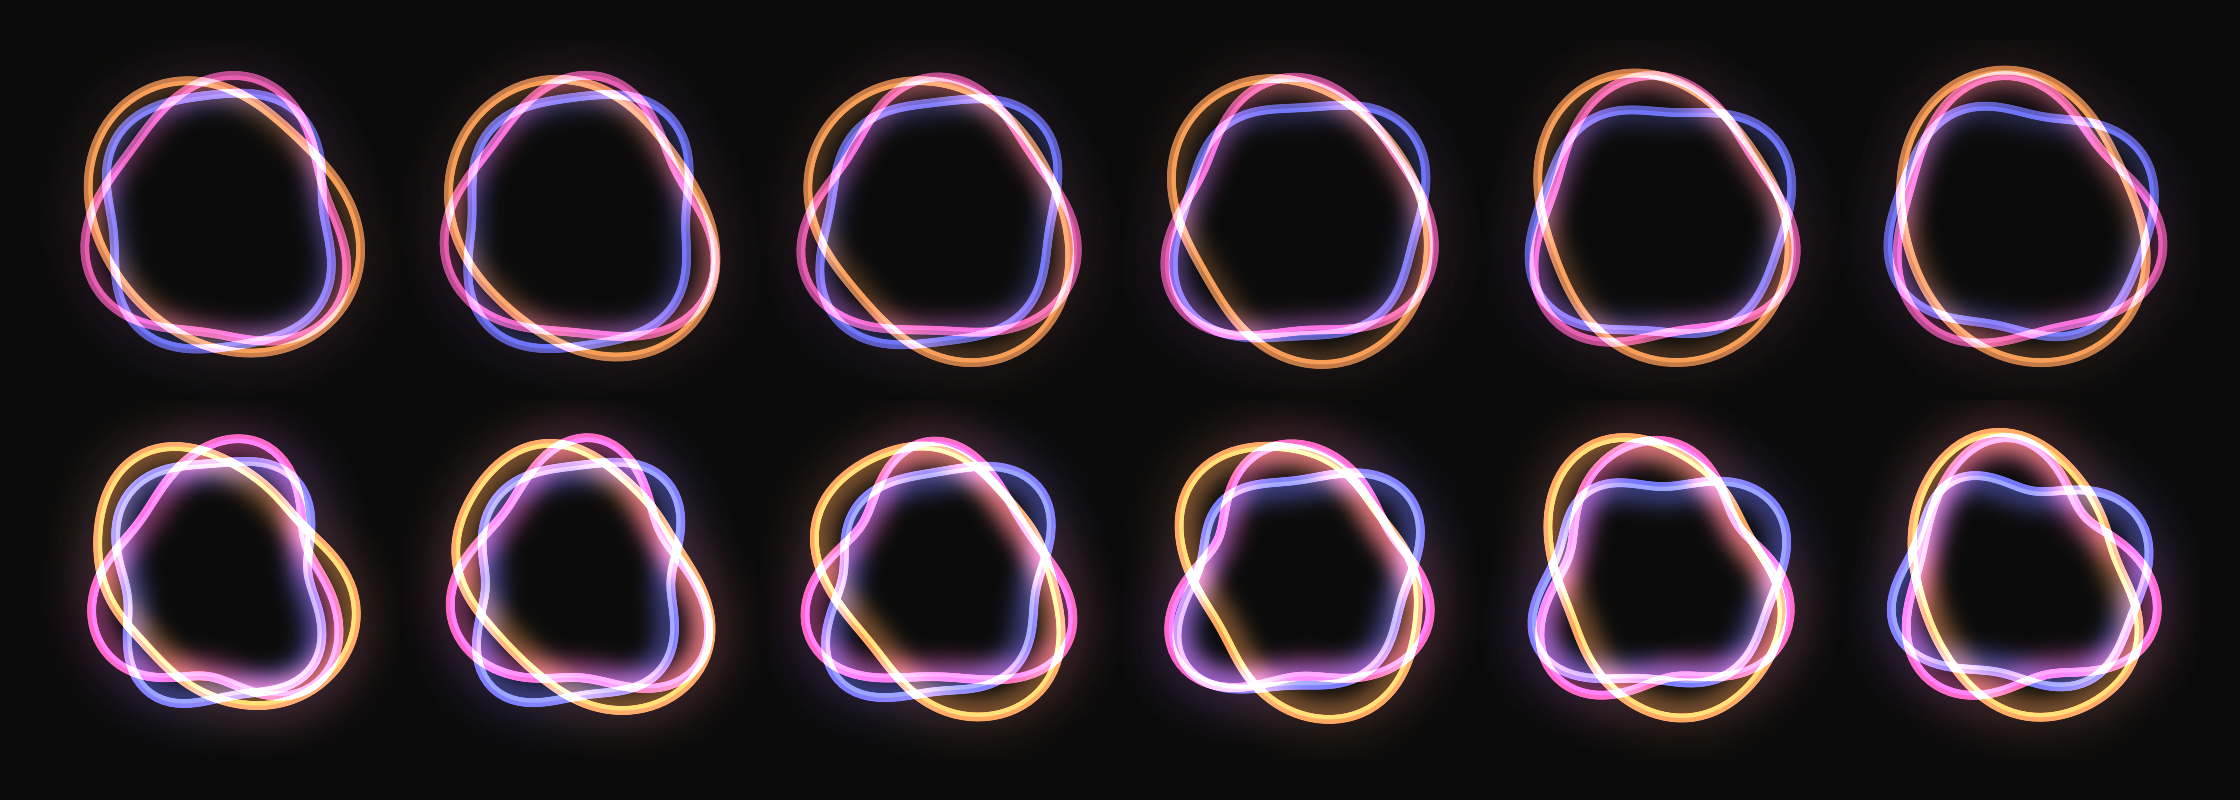
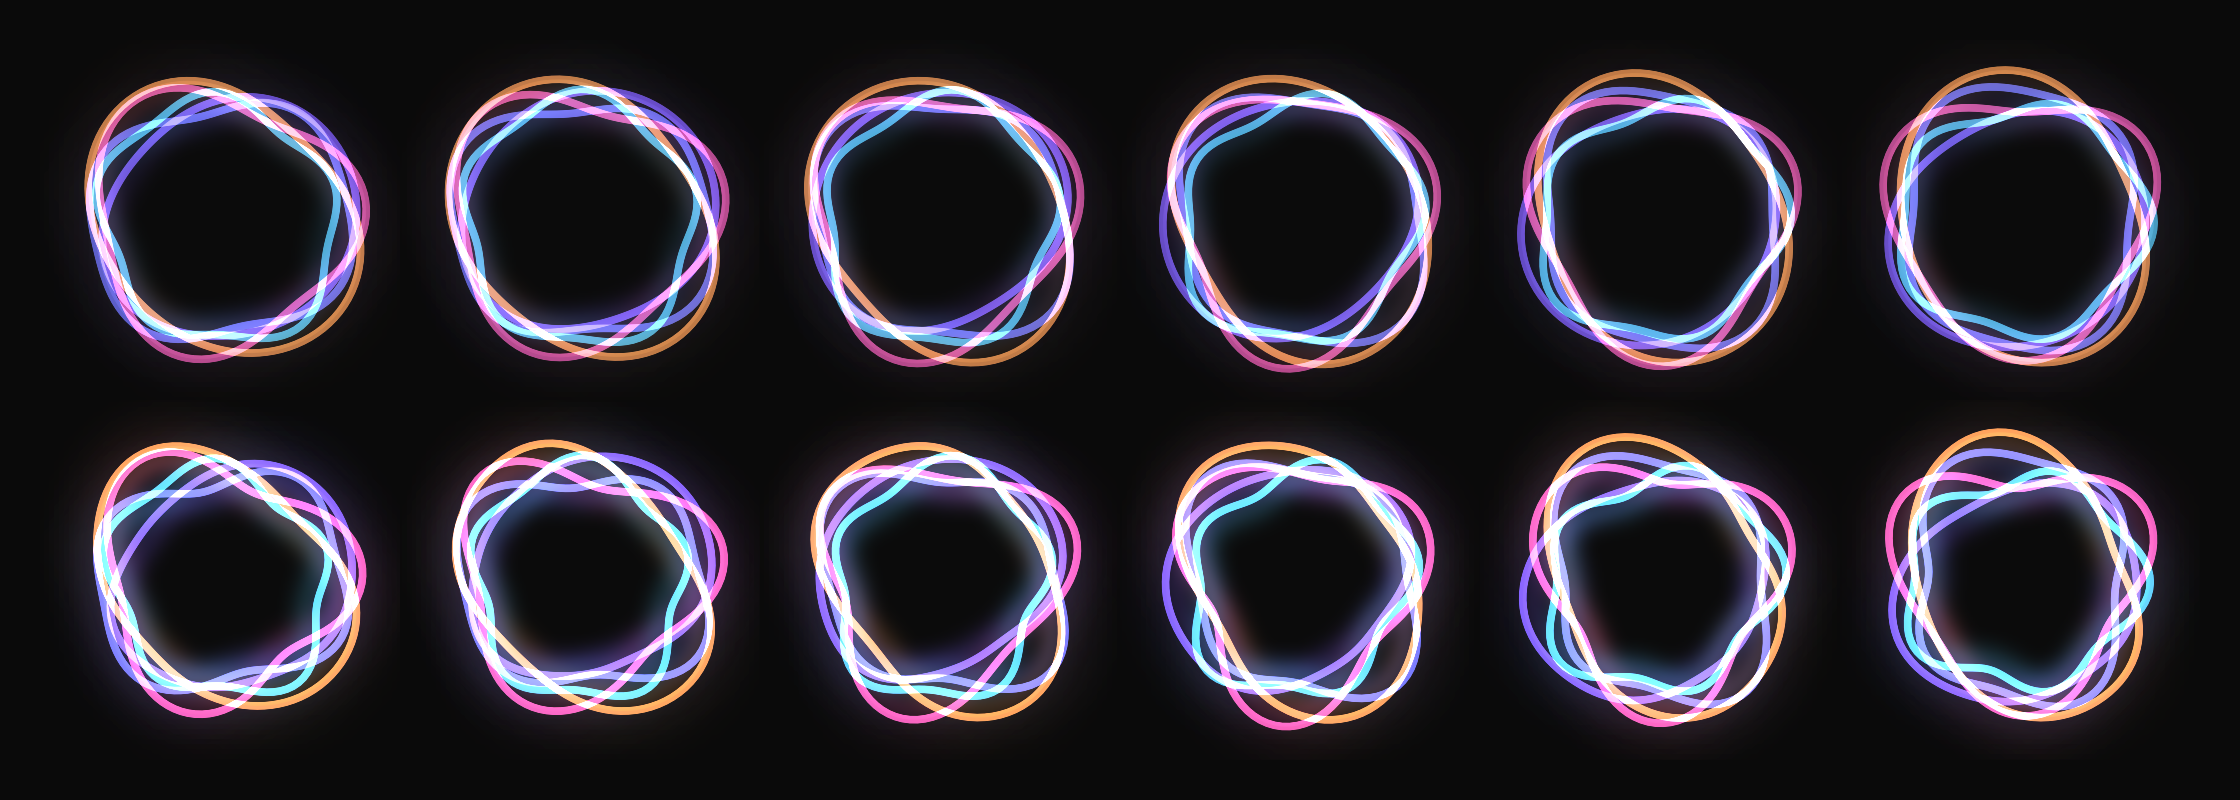
Orb: five blobs, 40 pt

Changed region(s): [[0.0312, 0.0625, 0.9688, 0.4688], [0.0312, 0.5312, 0.8125, 0.9375], [0.8438, 0.5312, 0.9688, 0.9062]]

diff --git a/Sources/Utter/HUD/LiquidOrb.swift b/Sources/Utter/HUD/LiquidOrb.swift
@@ -35,12 +35,15 @@ struct BlobShape: Shape {
         (1, 0.55, 0.0, 0.30), (2, -0.83, 1.3, 0.45), (3, 0.61, 2.1, 0.28), (4, -0.47, 0.7, 0.12),
     ]
 
-    /// The orb's three overlapping copies: an oval, a rounded triangle and a
-    /// soft square. Different shapes keep each outline recognisable where they cross.
-    static let trio: [[Bulge]] = [
+    /// The orb's overlapping copies, used in order (`OrbStyle.blobCount` of them):
+    /// an oval, a rounded triangle, a soft square, a lopsided bean and a soft
+    /// pentagon. Different shapes keep each outline recognisable where they cross.
+    static let shapes: [[Bulge]] = [
         [(2, 0.40, 0.0, 0.90), (3, -0.50, 1.0, 0.15), (1, 0.30, 2.0, 0.10)],
         [(3, -0.45, 0.5, 0.85), (2, 0.60, 1.4, 0.15), (4, 0.30, 0.2, 0.10)],
         [(2, -0.35, 2.2, 0.55), (4, 0.50, 0.9, 0.45), (1, 0.70, 0.0, 0.10)],
+        [(1, 0.55, 1.7, 0.60), (2, -0.40, 0.3, 0.50), (3, 0.35, 2.4, 0.12)],
+        [(5, 0.30, 0.6, 0.45), (2, -0.55, 1.9, 0.35), (1, 0.45, 0.4, 0.10)],
     ]
 
     func path(in rect: CGRect) -> Path {
@@ -75,6 +78,11 @@ struct BlobShape: Shape {
     }
 }
 
+/// How many blobs the orb draws (up to `BlobShape.shapes.count`).
+enum OrbStyle {
+    nonisolated(unsafe) static var blobCount = 5
+}
+
 /// Developer snapshots only (`--snapshot`): when set, animated views draw this
 /// moment instead of the real time, and every orb draws `motion` without
 /// advancing it, so an animation can be rendered frame by frame.
@@ -83,7 +91,7 @@ enum SnapshotClock {
     nonisolated(unsafe) static var motion: BlobMotion?
 }
 
-/// Frame-to-frame motion for the three blobs. Phases are integrated over time
+/// Frame-to-frame motion for the blobs. Phases are integrated over time
 /// (so changing speed never makes a shape jump) and the mic level is eased.
 ///
 /// When you start speaking after a pause (`SpeechOnset`: not every syllable),
@@ -94,15 +102,17 @@ enum SnapshotClock {
 /// With Reduce Motion on (System Settings → Accessibility → Display) there is
 /// no jolt and the blobs turn and morph at half speed.
 final class BlobMotion: ObservableObject {
-    static let speeds = [1.0, 1.35, 0.75]
-    static let directions = [1.0, -1.0, 0.6]
+    static let speeds = [1.0, 1.35, 0.75, 1.15, 0.9]
+    static let directions = [1.0, -1.0, 0.6, -0.8, 0.45]
+    /// Motion is kept for every possible blob; the orb draws the first `OrbStyle.blobCount`.
+    static let slots = BlobShape.shapes.count
 
     private var last: Date?
     private var onset = SpeechOnset()
     private var previousTarget = 0.0
     private var jitterClock = 0.0
-    private var kick = [0.0, 0.0, 0.0]
-    private var spikeSpeed = [0.0, 0.0, 0.0]
+    private var kick = [Double](repeating: 0, count: slots)
+    private var spikeSpeed = [Double](repeating: 0, count: slots)
     private var reduceMotion = false
 
     private(set) var level = 0.0
@@ -119,9 +129,9 @@ final class BlobMotion: ObservableObject {
     var shake: Double { min(1, energy + (reduceMotion ? 0 : 0.5 * voice)) }
     /// Random -1…1, changed ~30 times a second: shake and flicker during a jolt.
     private(set) var jitter = 0.0
-    private(set) var flow = [0.0, 0.0, 0.0]
-    private(set) var rotation = [0.0, 2.094, 4.189]
-    private(set) var spikes = [BlobShape.Spike](repeating: .none, count: 3)
+    private(set) var flow = [Double](repeating: 0, count: slots)
+    private(set) var rotation = (0..<slots).map { Double($0) * 2 * .pi / 3 + Double($0 / 3) * 1.05 }
+    private(set) var spikes = [BlobShape.Spike](repeating: .none, count: slots)
     private(set) var buzz = 0.0
     private(set) var time = 0.0
 
@@ -142,7 +152,7 @@ final class BlobMotion: ObservableObject {
         let rise = target - previousTarget
         previousTarget = target
         if rise > 0.06, !reduceMotion { // low enough that soft syllables count too
-            for i in 0..<3 {
+            for i in 0..<Self.slots {
                 kick[i] += (Bool.random() ? -1 : 1) * Double.random(in: 0.6...1.8) * rise * 2
                 spikes[i].lobes = Double(Int.random(in: 3...8))
                 spikes[i].lobes2 = Double(Int.random(in: 7...12))
@@ -155,7 +165,7 @@ final class BlobMotion: ObservableObject {
             // Louder starts jolt harder.
             let amount = min(1, 0.35 + target)
             energy = min(1, energy + amount)
-            for i in 0..<3 {
+            for i in 0..<Self.slots {
                 kick[i] += (Bool.random() ? -1 : 1) * Double.random(in: 2...6) * amount
                 spikes[i].lobes = Double(Int.random(in: 3...8))
                 spikes[i].lobes2 = Double(Int.random(in: 7...12))
@@ -170,7 +180,7 @@ final class BlobMotion: ObservableObject {
             jitter = Double.random(in: -1...1)
         }
         let pace = reduceMotion ? 0.5 : 1.0
-        for i in 0..<3 {
+        for i in 0..<Self.slots {
             kick[i] *= exp(-dt / 0.35)
             flow[i] += dt * pace * (0.8 + 1.5 * level + 6 * energy) * Self.speeds[i]
             rotation[i] += dt * (pace * (0.2 + 0.9 * level) * 0.6 * Self.directions[i] + kick[i])
@@ -184,14 +194,14 @@ final class BlobMotion: ObservableObject {
     }
 }
 
-/// Three dark blobs sharing one centre, each a different shape with its edge
+/// Five dark blobs (`OrbStyle.blobCount`) sharing one centre, each a different shape with its edge
 /// lit in its own colour, so where they overlap stays easy to see.
 ///
 /// - Listening: quiet, they turn and morph smoothly. While you talk, the edges
 ///   spike and the orb shakes in step with your voice, like the waveform's
 ///   bars, and the start of speech jolts it hardest (see `BlobMotion`).
 /// - Thinking: calm, slow morph.
-/// - Done: the three settle into one circle, a completion ring draws around
+/// - Done: the blobs settle into one circle, a completion ring draws around
 ///   it, then a check. Failed: settles amber with an exclamation mark.
 ///
 /// Everything is drawn inside a fixed `size` square, so it never reaches up
@@ -210,13 +220,16 @@ struct AIOrb: View {
     @StateObject private var motion = BlobMotion()
     @Environment(\.accessibilityReduceMotion) private var reduceMotion
 
-    /// One colour per blob.
+    /// One colour per blob, in drawing order (the first `OrbStyle.blobCount` are used).
     private var hues: [Color] {
         let cool = Color(red: 0.42, green: 0.45, blue: 1.0)
+        let cyan = Color(red: 0.30, green: 0.78, blue: 0.95)
         switch mood {
-        case .listening: return [Theme.amber, colors[0], cool]
-        case .thinking: return [Theme.magenta, Theme.violet, cool]
-        case .done, .failed: return [colors[0], colors[colors.count > 1 ? 1 : 0], colors[0]]
+        case .listening: return [Theme.amber, colors[0], cool, Theme.violet, cyan]
+        case .thinking: return [Theme.magenta, Theme.violet, cool, Theme.magenta, cyan]
+        case .done, .failed:
+            let second = colors[colors.count > 1 ? 1 : 0]
+            return [colors[0], second, colors[0], second, colors[0]]
         }
     }
 
@@ -282,15 +295,18 @@ struct AIOrb: View {
         let vibration = (0.02 * lv + 0.05 * voice + 0.03 * energy) * settle
         let hues = self.hues
 
-        let paths: [Path] = (0..<3).map { i in
-            let ri = CGFloat(r * (1 - 0.03 * Double(i) * settle))
+        let count = max(1, min(OrbStyle.blobCount, BlobMotion.slots))
+        // More blobs share the light: each glow is dimmed so the overlaps don't wash out white.
+        let share = min(1, 3 / Double(count))
+        let paths: [Path] = (0..<count).map { i in
+            let ri = CGFloat(r * (1 - 0.025 * Double(i) * settle))
             var spike = preview == nil ? motion.spikes[i] : .none
             spike.amount *= settle
             let flow = preview.map { $0.flow * BlobMotion.speeds[i] + Double(i) * 2.2 } ?? motion.flow[i]
-            let rotation = preview.map { Double(i) * 2.094 + $0.drift * 0.6 * BlobMotion.directions[i] }
+            let rotation = preview.map { Double(i) * 2 * .pi / Double(count) + $0.drift * 0.6 * BlobMotion.directions[i] }
                 ?? motion.rotation[i]
             return BlobShape(flow: flow, buzz: motion.buzz, wobble: wobble, vibration: vibration,
-                             bulges: BlobShape.trio[i], rotation: rotation, spike: spike)
+                             bulges: BlobShape.shapes[i], rotation: rotation, spike: spike)
                 .path(in: CGRect(x: center.x - ri, y: center.y - ri, width: 2 * ri, height: 2 * ri))
         }
         let flicker = 1 + 0.5 * shake * jitter
@@ -301,8 +317,8 @@ struct AIOrb: View {
         halo.blendMode = .plusLighter
         halo.drawLayer { layer in
             layer.addFilter(.blur(radius: 4 * k))
-            for i in 0..<3 {
-                layer.stroke(paths[i], with: .color(hues[i].opacity(min(1, (0.15 + 0.25 * lv + 0.3 * energy) * flicker))),
+            for i in paths.indices {
+                layer.stroke(paths[i], with: .color(hues[i].opacity(min(1, (0.15 + 0.25 * lv + 0.3 * energy) * flicker * share))),
                              lineWidth: 2.5 * k)
             }
         }
@@ -310,7 +326,7 @@ struct AIOrb: View {
         // Near-black bodies, so the orb melts into the notch.
         for path in paths { ctx.fill(path, with: .color(Color(white: 0.043))) }
 
-        // Soft glow just inside each edge. One blur for all three (blurs are the
+        // Soft glow just inside each edge. One blur for all of them (blurs are the
         // expensive part of a frame): each glow is clipped to its own blob, the
         // layer is blurred once, then clipped to the orb's outline.
         var outline = Path()
@@ -320,11 +336,11 @@ struct AIOrb: View {
         glow.clip(to: outline)
         glow.addFilter(.blur(radius: blob * 0.035))
         glow.drawLayer { layer in
-            for i in 0..<3 {
+            for i in paths.indices {
                 var inside = layer
                 inside.clip(to: paths[i])
-                // Kept low: three glows add up, and too much washes the overlaps white.
-                inside.stroke(paths[i], with: .color(hues[i].opacity(min(1, 0.28 + 0.2 * lv + 0.2 * energy))),
+                // Kept low: the glows add up, and too much washes the overlaps white.
+                inside.stroke(paths[i], with: .color(hues[i].opacity(min(1, 0.28 + 0.2 * lv + 0.2 * energy) * share)),
                               lineWidth: blob * (0.09 + 0.04 * lv))
             }
         }
@@ -332,9 +348,9 @@ struct AIOrb: View {
         // Crisp edges on top: these make each outline traceable through the overlaps.
         var edges = ctx
         edges.blendMode = .plusLighter
-        for i in 0..<3 {
+        for i in paths.indices {
             edges.stroke(paths[i], with: .color(hues[i].opacity(min(1, (0.7 + 0.3 * lv) * flicker))),
-                         lineWidth: 1.4 * k)
+                         lineWidth: (count > 3 ? 1.2 : 1.4) * k) // thinner when there are more lines
         }
     }
 }

diff --git a/Sources/Utter/Snapshots.swift b/Sources/Utter/Snapshots.swift
@@ -13,6 +13,10 @@ enum Snapshots {
         guard let i = args.firstIndex(of: "--snapshot"), i + 1 < args.count else { return false }
         let dir = URL(fileURLWithPath: args[i + 1], isDirectory: true)
         try? FileManager.default.createDirectory(at: dir, withIntermediateDirectories: true)
+        // `--blobs N`: render the orb with N blobs, to try a different count.
+        if let b = args.firstIndex(of: "--blobs"), b + 1 < args.count, let n = Int(args[b + 1]) {
+            OrbStyle.blobCount = n
+        }
 
         let state = AppState.shared
         state.frozenPermissions = true

diff --git a/Sources/Utter/HUD/BarRows.swift b/Sources/Utter/HUD/BarRows.swift
@@ -148,9 +148,9 @@ struct SessionRow: View {
         .padding(.trailing, 6)
     }
 
-    /// The orb is drawn at 45 pt inside the badge's 56 pt slot, so the island
+    /// The orb is drawn at 40 pt inside the badge's 56 pt slot, so the island
     /// keeps the same size in every phase.
-    private static let orbSize: CGFloat = 45
+    private static let orbSize: CGFloat = 40
 
     @ViewBuilder private var badge: some View {
         switch state.phase {

diff --git a/README.md b/README.md
@@ -8,7 +8,7 @@
 Dictate polished text into any app, or tell your Mac what to do.</p>
 
 <p align="center">
-  <img src="docs/images/demo.gif" width="810" alt="A dictation in the notch: three glowing outlined blobs and a waveform move with the voice and jolt when speech starts, then Polishing, then a green check and Inserted 12 words">
+  <img src="docs/images/demo.gif" width="810" alt="A dictation in the notch: five glowing outlined blobs and a waveform move with the voice and jolt when speech starts, then Polishing, then a green check and Inserted 12 words">
 </p>
 
 ## What it does
@@ -37,8 +37,8 @@ Dictate polished text into any app, or tell your Mac what to do.</p>
 | <img src="docs/images/settings-history.png" width="380" alt="History"> | **History.** Everything dictated or asked, stored only on this Mac. |
 | <img src="docs/images/floating-pill.png" width="380" alt="Floating pill"> | **Floating pill.** Used automatically on Macs without a notch; drag it anywhere. |
 
-<p align="center"><img src="docs/images/orb-morph.png" width="760" alt="The orb at six moments, quiet (top) and speaking (bottom): three overlapping outlined blobs in amber, pink and blue"><br>
-<em>The orb is three blobs sharing one centre, each a different shape with its edge lit in its own colour. Quiet (top) and while speaking (bottom).</em></p>
+<p align="center"><img src="docs/images/orb-morph.png" width="760" alt="The orb at six moments, quiet (top) and speaking (bottom): five overlapping outlined blobs in amber, pink, blue, violet and cyan"><br>
+<em>The orb is five blobs sharing one centre, each a different shape with its edge lit in its own colour. Quiet (top) and while speaking (bottom).</em></p>
 
 ## Controls
 
